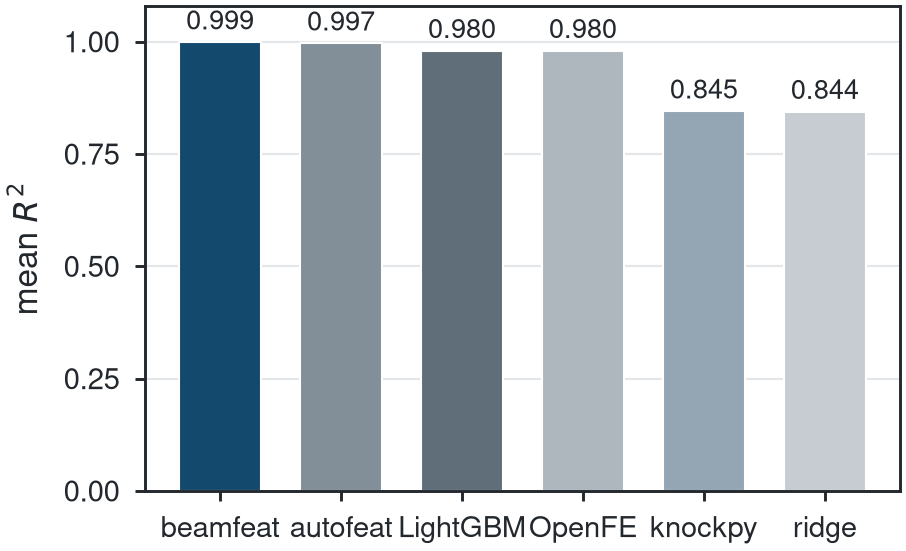
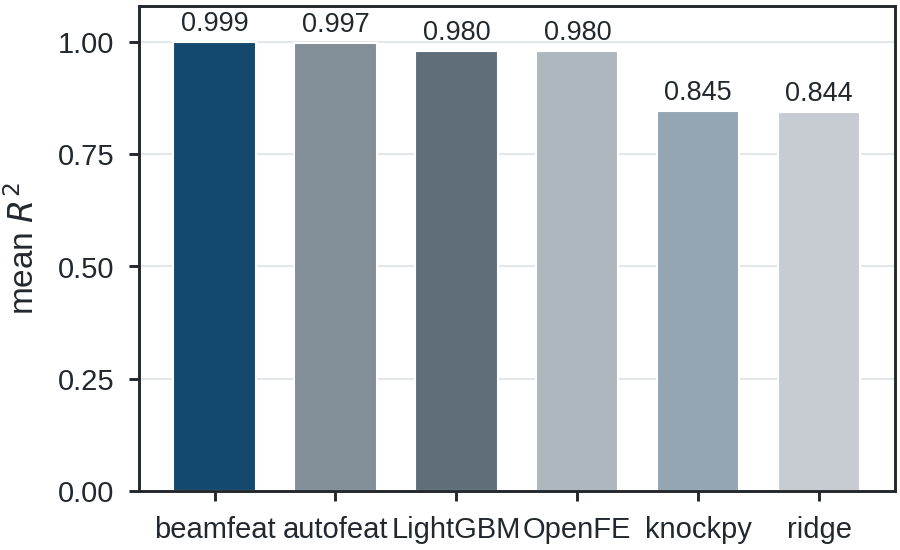
Read the wine file headerless with a provenance note; single-source the core-accuracy figure

diff --git a/benchmarks/independent/bench.py b/benchmarks/independent/bench.py
@@ -41,7 +41,7 @@ def get_datasets(which):
     if which in ("real", "all"):
         c = pd.read_csv(DATA / "data_concrete.csv")
         ds["concrete"] = (c.iloc[:, :-1].to_numpy(float), c.iloc[:, -1].to_numpy(float), None)
-        w = pd.read_csv(DATA / "data_winequality_red.csv")
+        w = pd.read_csv(DATA / "data_winequality_red.csv", header=None)  # file ships headerless
         ds["wine_red"] = (w.iloc[:, :-1].to_numpy(float), w.iloc[:, -1].to_numpy(float), None)
         b = pd.read_csv(DATA / "data_housing_boston.csv")
         yb = b["medv"].to_numpy(float); Xb = b.drop(columns=["medv"]).to_numpy(float)

diff --git a/benchmarks/make_figures.py b/benchmarks/make_figures.py
@@ -160,7 +160,9 @@ def _load(bench: pathlib.Path, *stems: str) -> pd.DataFrame:
 
 def fig_core_accuracy(bench: pathlib.Path, out: pathlib.Path) -> None:
     """Mean R^2 on the ten formula-recovery problems."""
-    df = _load(bench, "results", "results_autofeat_venv", "results_knockpy")
+    # results.json already carries the merged autofeat/knockpy rows; loading the
+    # venv files as well would average two different stochastic draws.
+    df = _load(bench, "results")
     if df.empty:
         return
     core = df[df.dataset.isin(CORE10)]

diff --git a/benchmarks/independent/PROVENANCE.md b/benchmarks/independent/PROVENANCE.md
@@ -83,7 +83,7 @@ repository's own real-data panel contains no contested dataset.
 - Default or paper-recommended settings only, with no hyperparameter search.
 - `OpenFE` is run into a linear model rather than the gradient-boosted setting
   it is designed for, which understates it.
-- The wine dataset here is the red-only variant (1598 x 11); autofeat's
+- The wine dataset here is the red-only variant (1,598 rows as archived: the file ships headerless and the loader formerly consumed UCI's first observation as a header; it now reads all 1,599, so fresh runs will differ by one row from every archived result; 11 columns; autofeat's
   published table used red and white combined (6497 x 12).
 - `recovered` measures column membership, not symbolic form: it asks whether
   some returned feature references all of the generating columns, not whether
